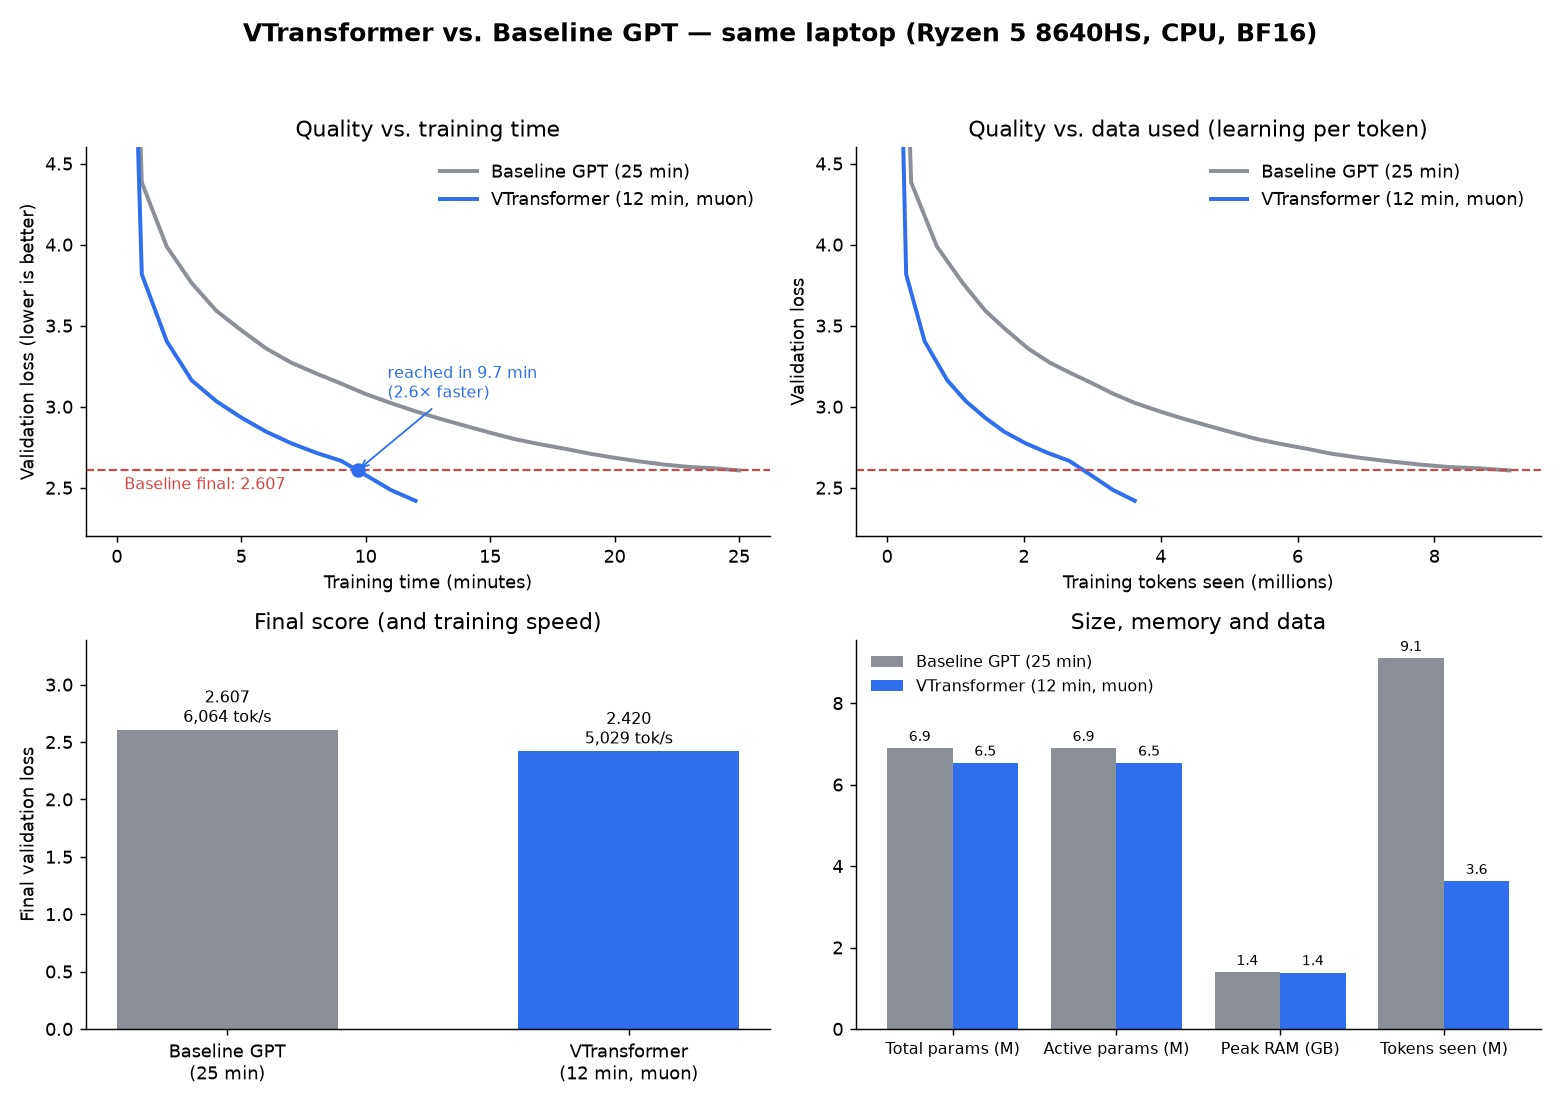
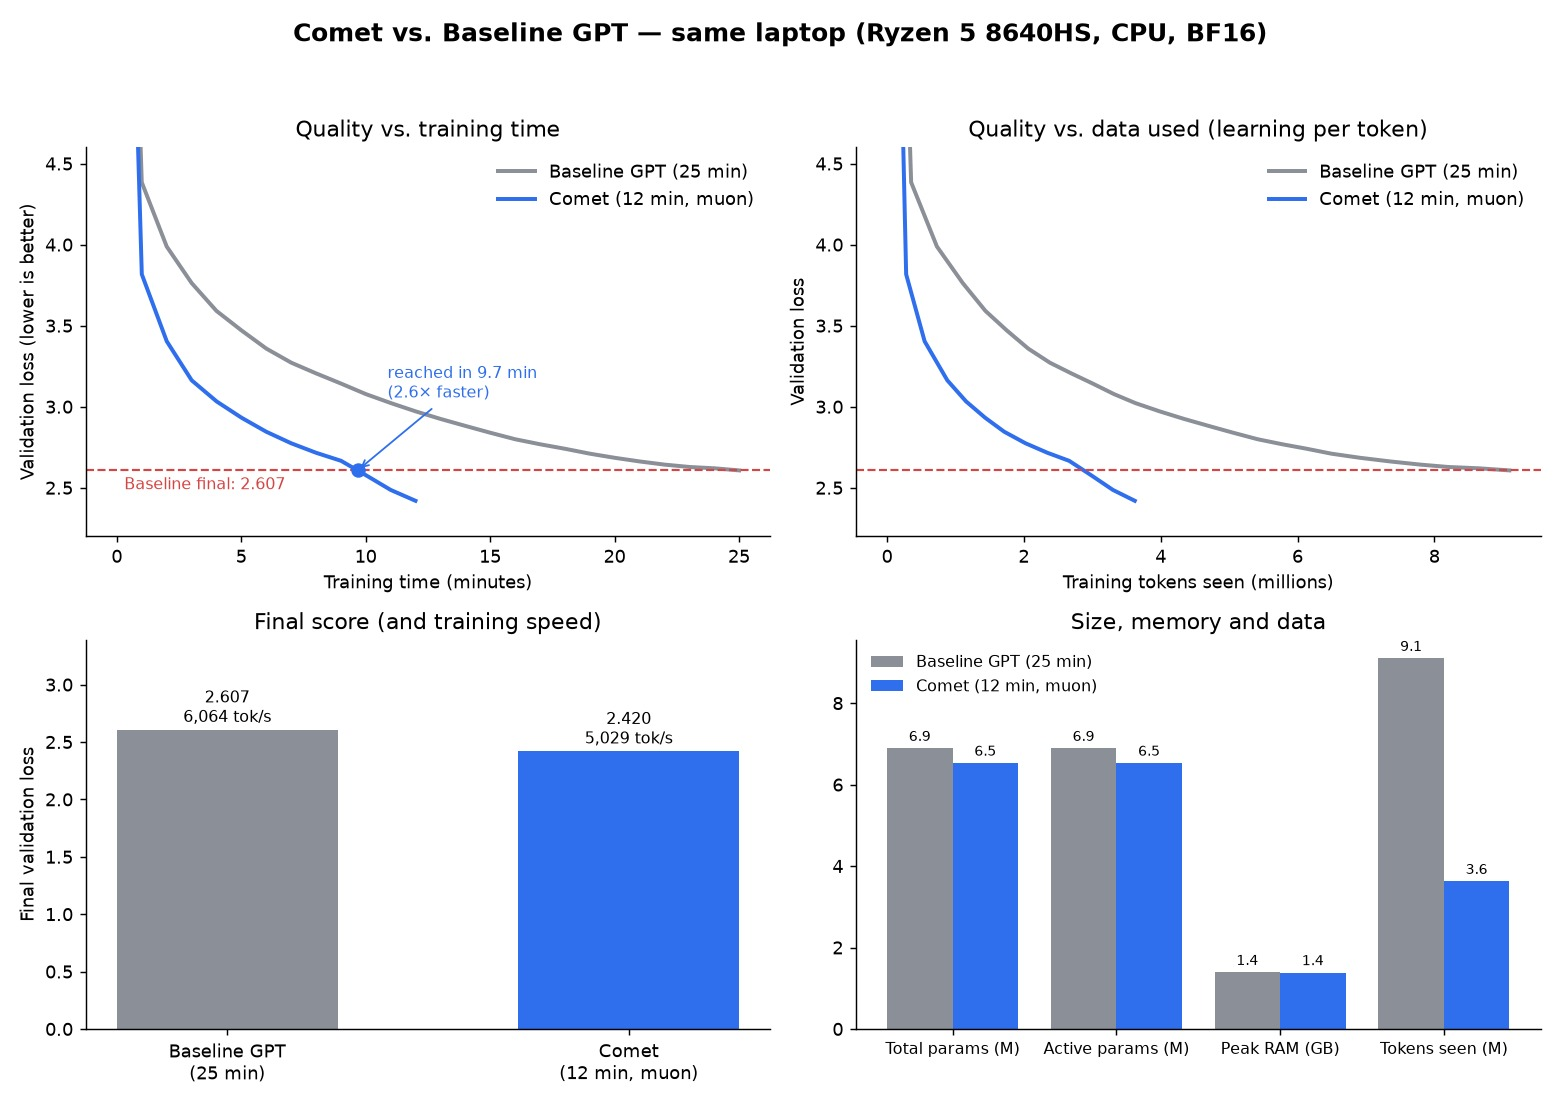
Rename to Comet; add learning-efficiency goal, reusable package and paper phases

diff --git a/bench.py b/bench.py
@@ -1,6 +1,6 @@
 """Build the benchmark image and table from training runs.
 
-    python bench.py                       # default: baseline vs latest VTransformer race
+    python bench.py                       # default: baseline vs latest Comet race
     python bench.py --runs baseline_d256_l6 vt_v1_muon_12m
 
 Outputs results/benchmark.jpg and results/benchmark.md (shown in the README).
@@ -16,7 +16,7 @@ import matplotlib.pyplot as plt  # noqa: E402
 
 ROOT = os.path.dirname(os.path.abspath(__file__))
 RUNS = os.path.join(ROOT, "results", "runs")
-COLORS = {"baseline": "#8a8f98", "vtransformer": "#2f6fed"}
+COLORS = {"baseline": "#8a8f98", "comet": "#2f6fed", "vtransformer": "#2f6fed"}  # vtransformer = old name
 
 
 def load(name):
@@ -29,7 +29,7 @@ def load(name):
 def label(s):
     if s["model"] == "baseline":
         return f"Baseline GPT ({s['minutes']:.0f} min)"
-    return f"VTransformer ({s['minutes']:.0f} min, {s.get('optim', 'adamw')})"
+    return f"Comet ({s['minutes']:.0f} min, {s.get('optim', 'adamw')})"
 
 
 def first_time_reaching(log, target):
@@ -53,7 +53,7 @@ def main():
 
     plt.rcParams.update({"font.size": 10, "axes.spines.top": False, "axes.spines.right": False})
     fig, ax = plt.subplots(2, 2, figsize=(12, 8.5), dpi=130)
-    fig.suptitle("VTransformer vs. Baseline GPT — same laptop (Ryzen 5 8640HS, CPU, BF16)",
+    fig.suptitle("Comet vs. Baseline GPT — same laptop (Ryzen 5 8640HS, CPU, BF16)",
                  fontsize=14, fontweight="bold")
 
     # 1. Val loss vs training time
@@ -67,10 +67,10 @@ def main():
         if s["model"] != "baseline":
             t = first_time_reaching(log, target)
             if t:
-                a.plot([t], [target], "o", color=COLORS["vtransformer"], ms=7)
+                a.plot([t], [target], "o", color=COLORS["comet"], ms=7)
                 a.annotate(f"reached in {t:.1f} min\n({base[2]['minutes'] / t:.1f}× faster)", (t, target),
-                           xytext=(t + 1.2, target + 0.45), fontsize=9, color=COLORS["vtransformer"],
-                           arrowprops=dict(arrowstyle="->", color=COLORS["vtransformer"]))
+                           xytext=(t + 1.2, target + 0.45), fontsize=9, color=COLORS["comet"],
+                           arrowprops=dict(arrowstyle="->", color=COLORS["comet"]))
     a.set_ylim(2.2, 4.6)
     a.set_xlabel("Training time (minutes)")
     a.set_ylabel("Validation loss (lower is better)")

diff --git a/comet/model.py b/comet/model.py
@@ -1,4 +1,4 @@
-"""VTransformer model (Phase 3 core).
+"""Comet model (Phase 3 core).
 
 Core upgrades over the baseline:
   - RoPE positions (no position table), QK-Norm, grouped-query attention (GQA)
@@ -18,7 +18,7 @@ from .attention import Attention, Norm
 
 
 @dataclass
-class VConfig:
+class CometConfig:
     vocab: int = 8192
     ctx: int = 256
     d: int = 256
@@ -64,8 +64,8 @@ class Block(nn.Module):
         return x + self.mlp(self.n2(x))
 
 
-class VTransformer(nn.Module):
-    def __init__(self, cfg: VConfig):
+class Comet(nn.Module):
+    def __init__(self, cfg: CometConfig):
         super().__init__()
         self.cfg = cfg
         self.tok = nn.Embedding(cfg.vocab, cfg.d)

diff --git a/train.py b/train.py
@@ -1,4 +1,4 @@
-"""Train any model in vtransformer.MODELS under a wall-clock time budget.
+"""Train any model in comet.MODELS under a wall-clock time budget.
 
 Example:
     python train.py --model baseline --name baseline_d256 --minutes 25 --d 256 --layers 6 --heads 4
@@ -23,8 +23,8 @@ import numpy as np
 import psutil
 import torch
 
-from vtransformer import MODELS
-from vtransformer.optim import build_optimizer
+from comet import MODELS
+from comet.optim import build_optimizer
 
 ROOT = os.path.dirname(os.path.abspath(__file__))
 

diff --git a/comet/__init__.py b/comet/__init__.py
@@ -1,0 +1,9 @@
+"""Comet: a faster-to-train Transformer variant (see plan.md)."""
+from .baseline import BaselineConfig, BaselineGPT
+from .model import Comet, CometConfig
+
+MODELS = {
+    "baseline": (BaselineConfig, BaselineGPT),
+    "comet": (CometConfig, Comet),
+    "vtransformer": (CometConfig, Comet),  # old name, so earlier checkpoints still load
+}

diff --git a/comet/attention.py b/comet/attention.py
@@ -1,4 +1,4 @@
-"""VTransformer attention: RoPE, QK-Norm, grouped-query attention.
+"""Comet attention: RoPE, QK-Norm, grouped-query attention.
 
 Phase 3 finding (results/phase3.md): on this CPU (Ryzen 5 8640HS, BF16, context 256)
   - plain attention math is ~1.7x faster than the fused SDPA kernel, and

diff --git a/sample.py b/sample.py
@@ -8,7 +8,7 @@ import os
 import torch
 from tokenizers import Tokenizer
 
-from vtransformer import MODELS
+from comet import MODELS
 
 ROOT = os.path.dirname(os.path.abspath(__file__))
 PROMPTS = ["Once upon a time", "Tom and his dog", "The little girl was sad because", "One day, a big bird"]

diff --git a/comet/baseline.py b/comet/baseline.py
@@ -1,4 +1,4 @@
-"""Plain GPT baseline: the model VTransformer has to beat.
+"""Plain GPT baseline: the model Comet has to beat.
 
 Standard GPT-2 style: learned position embeddings, LayerNorm, plain (unfused) causal
 attention, GELU MLP, tied input/output embeddings. No sharing, no experts.

diff --git a/plan.md b/plan.md
@@ -1,7 +1,7 @@
-# VTransformer — Plan
+# Comet — Plan
 
-**Status:** planning. No code yet.
-**Code name:** `vtransformer`
+**Status:** Phases 0–3 done. Comet v1 reaches the baseline's 25-minute loss in 9.7 minutes (2.6× faster).
+**Code name:** `comet`
 **Its Mixture of Experts design:** **EMOE** (Efficient Mixture of Experts)
 
 ## Goals
@@ -10,7 +10,11 @@ Build a Transformer variant that, compared with a standard Transformer on the sa
 
 1. **Trains faster:** reaches the same validation loss in less wall-clock time (target 1.5–3×).
 2. **Fits more parameters per GB of memory** (target 2–4×), by reusing parameters, sharing experts and cutting optimizer memory.
-3. **Runs on a PC in 20–30 minutes:** every training run fits a **hard 20–30 minute budget** (never hours). PC only; no Android target.
+3. **Runs on a PC in 10–15 minutes:** every Comet run fits a **10–15 minute budget** (never hours). PC only; no Android target.
+4. **Absorbs more, gets more right:** in less training time, the model learns more from each token and gets more things right. Measured by:
+   - **Loss per token seen** (learning efficiency), not just loss per minute.
+   - **Next-token accuracy** on held-out stories (how often the top guess is right).
+   - **Fact-consistency probes:** short fixed tests (does it keep names, objects and who-did-what straight across a story?), scored automatically.
 
 Success is measured, not assumed: every idea gets tested against a plain baseline Transformer (see "How we prove it works").
 
@@ -104,7 +108,7 @@ Many tiny experts means many small matrix operations, which can be slower on a C
 
 ### EMOE tests
 Race three versions with the same compute per token:
-1. Dense VTransformer (no experts)
+1. Dense Comet (no experts)
 2. Normal MoE (8 big experts per layer)
 3. EMOE (tiny experts, shared pool, shared expert)
 
@@ -175,7 +179,7 @@ Target: **roughly half the memory per parameter** of the baseline setup, before 
 
 **Scenario:** within 25 minutes, a standard Transformer's useful ceiling is its best-performing size. On the CPU, that's expected to be **~5–10M parameters**. Bigger dense models see too few tokens to learn well. Phase 2 measures the real ceiling.
 
-**Goal:** in the same 25 minutes, VTransformer (EMOE + MoD + loops + lean memory) trains **~10–20× more total parameters** than the baseline's ceiling: **~50–150M total parameters on the CPU**.
+**Goal:** in the same 25 minutes, Comet (EMOE + MoD + loops + lean memory) trains **~10–20× more total parameters** than the baseline's ceiling: **~50–150M total parameters on the CPU**.
 - **Stretch goal: 250M+.** The Radeon GPU can't help (tested in Phase 0), so this depends on MoD, adaptive depth and Phase 3/8 speed-ups raising tokens/sec enough to train more experts in 25 minutes.
 
 **Why it's possible:**
@@ -191,9 +195,9 @@ Target: **roughly half the memory per parameter** of the baseline setup, before 
 | Model | Total params | Active per token | Peak RAM | Val loss | Tokens/sec |
 |---|---|---|---|---|---|
 | Baseline Transformer | ~5–10M (ceiling) | same | measure | measure | measure |
-| VTransformer + EMOE + MoD | **~50–150M (stretch 250M+)** | ~baseline | measure | measure | measure |
+| Comet + EMOE + MoD | **~50–150M (stretch 250M+)** | ~baseline | measure | measure | measure |
 
-Win condition: VTransformer trains 10×+ more total parameters **and** gets a lower validation loss than the baseline in the same 25 minutes.
+Win condition: Comet trains 10×+ more total parameters **and** gets a lower validation loss than the baseline in the same 25 minutes.
 
 ---
 
@@ -228,11 +232,11 @@ Every claim gets checked against a **baseline**: a plain GPT-style Transformer (
 ## Project layout (planned)
 
 ```
-VTransformer/
+Comet/
   plan.md              # this file
   README.md
   requirements.txt     # torch, numpy, tokenizers, datasets, matplotlib
-  vtransformer/
+  comet/
     config.py          # all switches (attention type, loops, experts, etc.)
     attention.py       # RoPE, QK-Norm, GQA, gating, differential, sliding window
     emoe.py            # EMOE: tiny experts, shared pool, routers, shared expert
@@ -240,7 +244,7 @@ VTransformer/
     halting.py         # adaptive loop depth (halting scores, ponder cost)
     mtp.py             # multi-token prediction heads
     block.py           # transformer block + per-loop adapters
-    model.py           # VTransformer model
+    model.py           # Comet model
     baseline.py        # plain GPT baseline (+ normal MoE variant)
     optim.py           # Muon + AdamW (8-bit) setup, WSD schedule
   data/
@@ -276,7 +280,7 @@ VTransformer/
 - ⏭ Ceiling sweep skipped (saves ~55 min). The single 25-minute baseline run logged val loss every minute, so its full curve is the reference.
 
 ### The main race (replaces the ceiling sweep as the headline test)
-VTransformer trains for **10–15 minutes**. The baseline already ran 25 minutes, and we compare against its logged curve:
+Comet trains for **10–15 minutes**. The baseline already ran 25 minutes, and we compare against its logged curve:
 
 | Baseline at | Val loss |
 |---|---|
@@ -286,13 +290,13 @@ VTransformer trains for **10–15 minutes**. The baseline already ran 25 minutes
 | 25 min (final) | **2.607** |
 
 **Win conditions:**
-1. **Faster:** VTransformer beats the baseline's loss at the same minute (e.g. < 2.971 at 12 min).
-2. **Main goal:** VTransformer reaches **2.607 or lower in ≤15 minutes** (the baseline needed 25). That's ≥1.7× faster training.
+1. **Faster:** Comet beats the baseline's loss at the same minute (e.g. < 2.971 at 12 min).
+2. **Main goal:** Comet reaches **2.607 or lower in ≤15 minutes** (the baseline needed 25). That's ≥1.7× faster training.
 3. **Stretch:** reach 2.607 in ≤12 minutes (≥2× faster), with stories that make more sense than the baseline's.
 
 **Fairness note:** at minute 10–15 the baseline's learning rate was still high (its schedule was planned for 25 min), so its mid-run numbers are a bit worse than a dedicated 10–15 minute baseline would get. That's why **win condition 2 is the one that counts:** matching the baseline's *final* 2.607 is a clean comparison.
 
-### Phase 3: VTransformer v1 (core) ✅
+### Phase 3: Comet v1 (core) ✅
 - ✅ RoPE + QK-Norm + GQA + SwiGLU + tied embeddings + BF16 + WSD schedule, plus **Muon** (pulled forward from Phase 4).
 - ✅ **Main goal and stretch goal hit:** reached the baseline's final 2.607 in **9.7 min (2.6× faster)**; 12-minute run finished at **2.420**. Details: `results/phase3.md`, chart: `results/benchmark.jpg`.
 - Finding: on this CPU the fused attention kernel and RMSNorm are *slower*; defaults use plain attention math + LayerNorm.
@@ -316,8 +320,8 @@ VTransformer trains for **10–15 minutes**. The baseline already ran 25 minutes
 - Sequence-length curriculum, `torch.compile`, thread tuning.
 
 ### Phase 9: Results
-- Final head-to-head: baseline vs. normal MoE vs. VTransformer + EMOE + MoD. Charts and a write-up of what worked and what didn't.
-- Run the **parameter ceiling challenge** (baseline ceiling vs. VTransformer, 25 minutes each).
+- Final head-to-head: baseline vs. normal MoE vs. Comet + EMOE + MoD. Charts and a write-up of what worked and what didn't.
+- Run the **parameter ceiling challenge** (baseline ceiling vs. Comet, 25 minutes each).
 - **Publish the benchmark (required):**
   - `bench.py` makes **`results/benchmark.jpg`**, one image with 4 charts: validation loss vs. training time, validation loss vs. peak RAM, total vs. active parameters, and tokens/sec.
   - Also save a **`results/benchmark.md`** table with the exact numbers, plus sample text from each model on the same prompts.
@@ -327,14 +331,23 @@ VTransformer trains for **10–15 minutes**. The baseline already ran 25 minutes
 ### Phase 10 (optional): Scale up
 - Best config on FineWeb-Edu, at the biggest size this PC can handle.
 
-### Phase 11: Save it globally
-- Once VTransformer and EMOE are finished and tested, save a summary to the global CLAUDE.md (name, how it works, when to offer it), so every future AI project can use it as an option.
+### Phase 11: Reusable implementation
+- Turn `comet/` into a clean, installable package (`pip install git+https://github.com/TerminalDev-1/Comet`), with a simple API (`Comet(CometConfig(...))`, `train(...)`), presets (tiny / small / EMOE), and docs.
+- Keep the baseline and benchmark scripts so anyone can reproduce the results.
+
+### Phase 12: Save it globally
+- Once Comet and EMOE are finished and tested, save a summary to the global CLAUDE.md (name, how it works, when to offer it, where the package lives), so every future AI project can use it as an option.
+
+### Phase 13: Research paper
+- Write it the way labs do: abstract, introduction, related work, method (Comet architecture, EMOE, MoD, adaptive depth, MTP), experimental setup, results with charts and tables, ablations, limitations, conclusion, references.
+- Every number comes from runs in `results/`; ablations show what each part adds.
+- Publish as `paper/comet.pdf` (built from LaTeX) in the repo. Posting to arXiv needs your own account and an endorsement, so that step is yours.
 
 ---
 
 ## Target numbers (to check, not promises)
 
-| Metric | Baseline | VTransformer goal |
+| Metric | Baseline | Comet goal |
 |---|---|---|
 | Time to reach baseline's final val loss | 25 min | **≤ 12 min** |
 | Memory per parameter during training | ~16 bytes | **~8 bytes** |
@@ -352,9 +365,9 @@ VTransformer trains for **10–15 minutes**. The baseline already ran 25 minutes
 
 ## Decisions
 
-- **Name:** VTransformer (no hyphens or spaces). Was "$Transformer" / "STransformer".
+- **Name:** Comet (capital C, rest lowercase). Fast and bright. Was VTransformer, before that "$Transformer" / "STransformer". GitHub repo: TerminalDev-1/Comet.
 - **MoE design name:** EMOE (Efficient Mixture of Experts). Was "SMOE".
-- **Time budget:** VTransformer runs are **10–15 minutes**. The baseline's single 25-minute run is the reference; no more long baseline runs. Never hours.
+- **Time budget:** Comet runs are **10–15 minutes**. The baseline's single 25-minute run is the reference; no more long baseline runs. Never hours.
 - **Benchmark image:** when training is done, `results/benchmark.jpg` is pushed to GitHub and shown in the README.
 - **Training device:** CPU with BF16, 6 threads by default. The Radeon 760M was tested in Phase 0 and lost.
 - **PC only.** Everything runs on the PC. No Android export or phone target unless it becomes absolutely necessary.

diff --git a/results/phase3.md b/results/phase3.md
@@ -1,10 +1,10 @@
-# Phase 3: VTransformer v1
+# Phase 3: Comet v1
 
 ## Result
 
-**VTransformer reached the baseline's final 25-minute loss (2.607) in 9.7 minutes (2.6× faster), and finished its 12-minute run at 2.420.** It saw only 3.6M tokens vs. the baseline's 9.1M, so it learns far more per token.
+**Comet reached the baseline's final 25-minute loss (2.607) in 9.7 minutes (2.6× faster), and finished its 12-minute run at 2.420.** It saw only 3.6M tokens vs. the baseline's 9.1M, so it learns far more per token.
 
-| Minute | Baseline (25-min run) | VTransformer (12-min run) |
+| Minute | Baseline (25-min run) | Comet (12-min run) |
 |---|---|---|
 | 1 | 4.384 | 3.817 |
 | 3 | 3.763 | 3.163 |
@@ -14,7 +14,7 @@
 | 12 | 2.971 | **2.420** |
 | 25 | **2.607** | — |
 
-Run: `python train.py --model vtransformer --name vt_v1_muon_12m --minutes 12 --lr 0.003 --optim muon --muon_lr 0.02 --schedule wsd`
+Run: `python train.py --model comet --name vt_v1_muon_12m --minutes 12 --lr 0.003 --optim muon --muon_lr 0.02 --schedule wsd`
 Config: d=256, 6 layers, 4 query heads / 2 KV heads, RoPE, QK-Norm, SwiGLU, tied embeddings, 6.52M params.
 
 ## Fair 3-minute A/B (each run with its own full schedule)
@@ -22,8 +22,8 @@ Config: d=256, 6 layers, 4 query heads / 2 KV heads, RoPE, QK-Norm, SwiGLU, tied
 | Run | Val loss @ 3 min | Tokens/sec |
 |---|---|---|
 | Baseline GPT (AdamW, cosine) | 3.980 | 6,102 |
-| VTransformer v1 (AdamW, WSD) | 3.473 | 6,021 |
-| **VTransformer v1 (Muon, WSD)** | **3.061** | 5,072 |
+| Comet v1 (AdamW, WSD) | 3.473 | 6,021 |
+| **Comet v1 (Muon, WSD)** | **3.061** | 5,072 |
 
 - Architecture alone (same optimizer family) is a clear win: 3.98 → 3.47.
 - **Muon is the biggest single win:** 3.47 → 3.06, despite costing ~16% speed (Newton-Schulz steps on the CPU).

diff --git a/README.md b/README.md
@@ -1,21 +1,21 @@
-# VTransformer
+# Comet
 
 A faster-to-train Transformer variant, built and benchmarked on a laptop CPU (AMD Ryzen 5 8640HS, no GPU).
 
-![VTransformer benchmark](results/benchmark.jpg)
+![Comet benchmark](results/benchmark.jpg)
 
 ## Latest result (Phase 3)
 
 | Model | Train time | Final val loss | Time to reach 2.607 | Tokens seen |
 |---|---|---|---|---|
 | Baseline GPT | 25 min | 2.607 | 25.0 min | 9.1M |
-| **VTransformer v1** | **12 min** | **2.420** | **9.7 min (2.6× faster)** | **3.6M** |
+| **Comet v1** | **12 min** | **2.420** | **9.7 min (2.6× faster)** | **3.6M** |
 
 Same data (TinyStories), same tokenizer, same size (~6.5–6.9M parameters), same laptop.
-VTransformer beats the baseline's 25-minute score in under 10 minutes, while seeing 2.5× fewer tokens.
+Comet beats the baseline's 25-minute score in under 10 minutes, while seeing 2.5× fewer tokens.
 Full numbers: [results/benchmark.md](results/benchmark.md) · details: [results/phase3.md](results/phase3.md).
 
-## What's in VTransformer so far
+## What's in Comet so far
 
 - **Attention:** rotary positions (RoPE), QK-Norm, grouped-query attention
 - **MLP:** SwiGLU
@@ -31,7 +31,7 @@ python -m venv .venv
 .venv/Scripts/pip install torch --index-url https://download.pytorch.org/whl/cpu
 .venv/Scripts/pip install -r requirements.txt
 .venv/Scripts/python data/prepare.py          # download + filter TinyStories, train tokenizer (~4 min)
-.venv/Scripts/python train.py --model vtransformer --name my_run --minutes 12 --lr 0.003 --optim muon --schedule wsd
+.venv/Scripts/python train.py --model comet --name my_run --minutes 12 --lr 0.003 --optim muon --schedule wsd
 .venv/Scripts/python sample.py checkpoints/my_run.pt
 .venv/Scripts/python bench.py --runs baseline_d256_l6 my_run
 ```

diff --git a/results/benchmark.md b/results/benchmark.md
@@ -5,4 +5,4 @@
 | Model | Train time | Final val loss | Time to reach baseline's final loss | Tokens/sec | Tokens seen | Params (total / active) | Peak RAM |
 |---|---|---|---|---|---|---|---|
 | Baseline GPT (25 min) | 25 min | **2.607** | 25.0 min | 6,064 | 9.1M | 6.89M / 6.89M | 1,420 MB |
-| VTransformer (12 min, muon) | 12 min | **2.420** | 9.7 min | 5,029 | 3.6M | 6.52M / 6.52M | 1,415 MB |
+| Comet (12 min, muon) | 12 min | **2.420** | 9.7 min | 5,029 | 3.6M | 6.52M / 6.52M | 1,415 MB |
